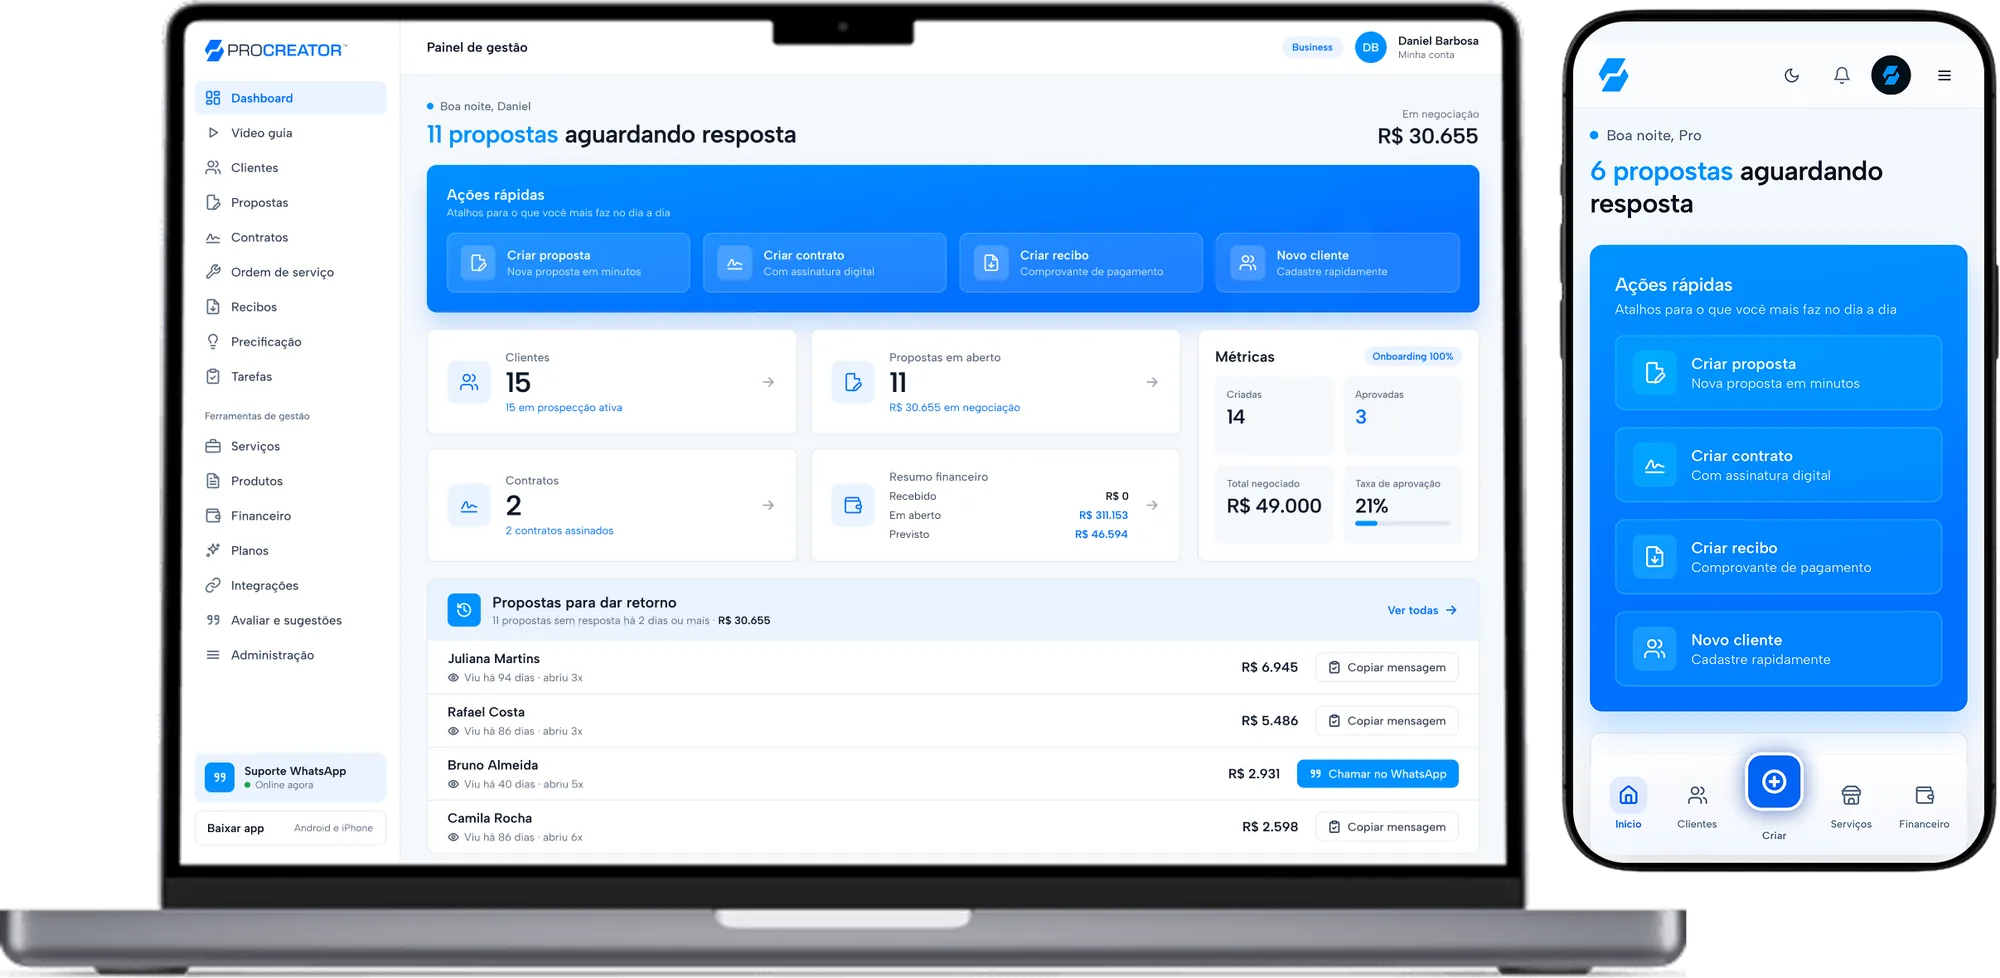
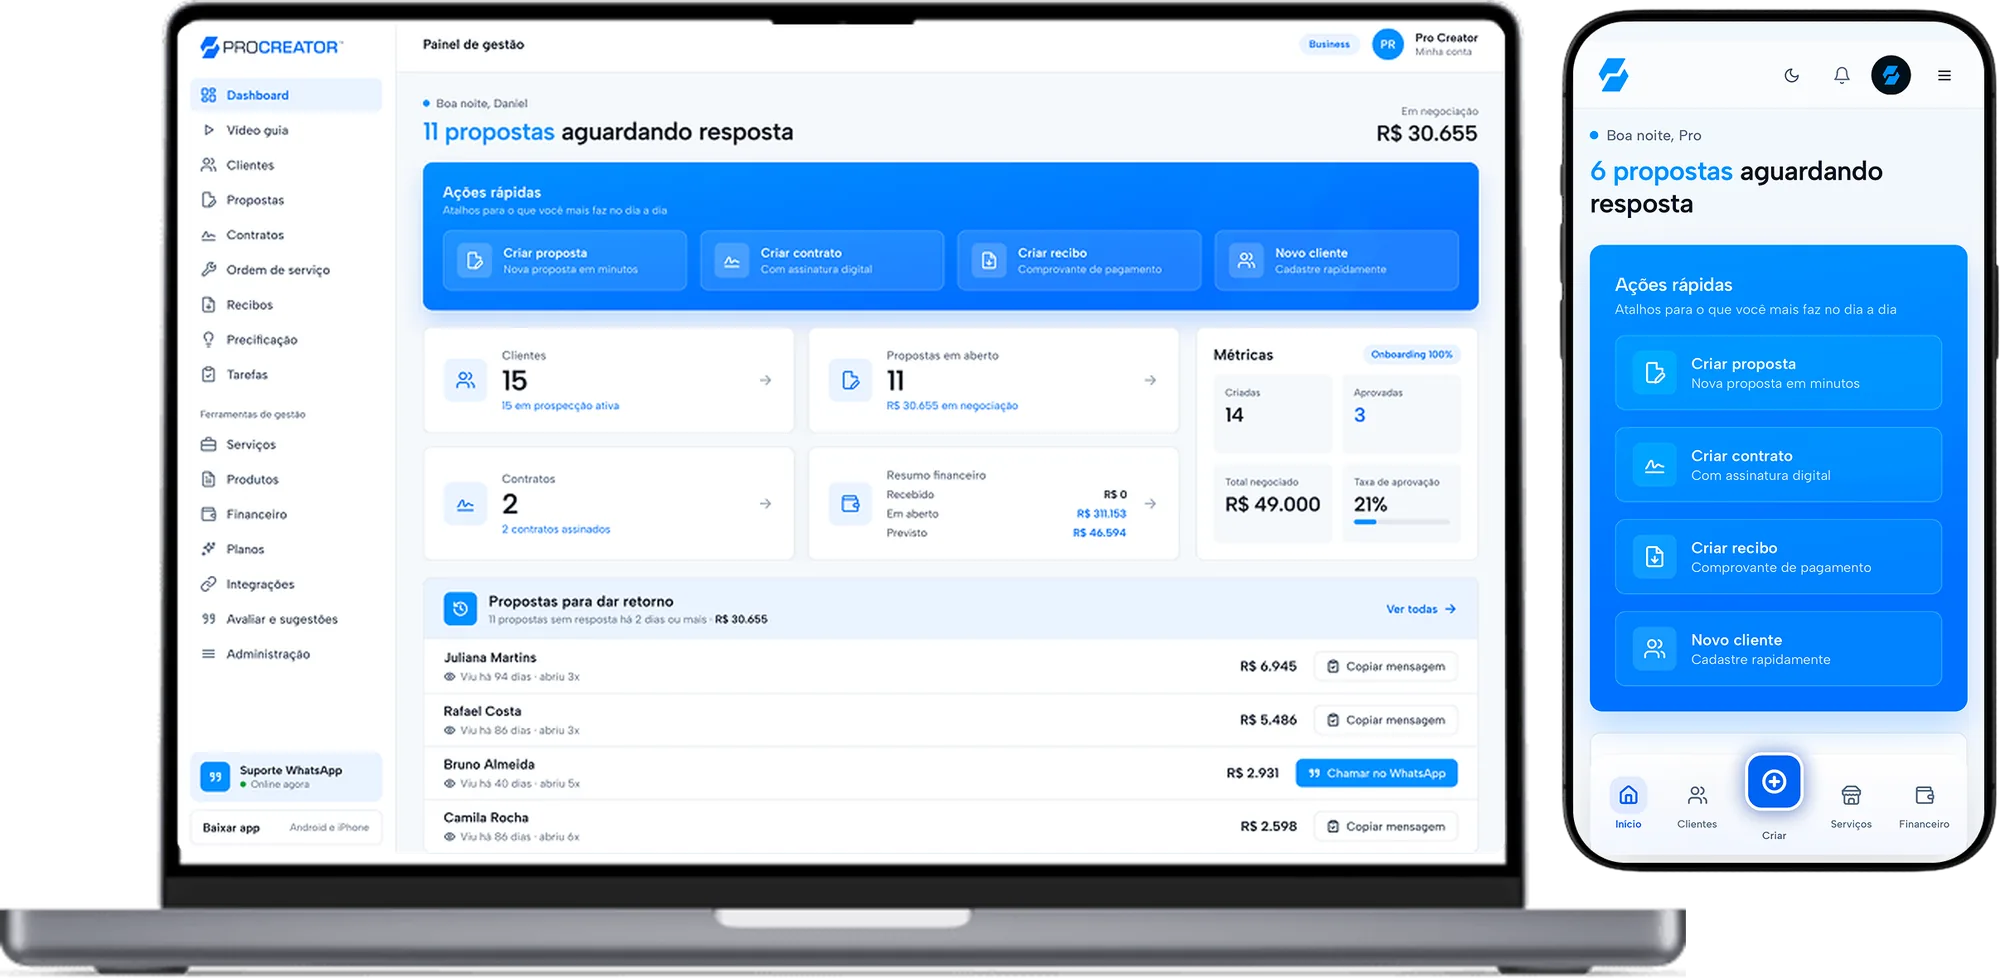
Topo: notebook novo no mockup notebook + celular (#49)
Claude-Session: https://claude.ai/code/session_011aKuBzDWzewufhaf3nabcw

diff --git a/index.html b/index.html
@@ -152,7 +152,7 @@ fbq('init','912571467763616');fbq('track','PageView');
   <!-- MOCKUP -->
   <section class="mockup-band" aria-label="Pro Creator no notebook e no celular">
     <div class="container">
-      <img class="mockup-band-img" loading="lazy" decoding="async" src="assets/img/painel-notebook-celular.webp" alt="Pro Creator funcionando no notebook e no celular" width="2000" height="978">
+      <img class="mockup-band-img" loading="lazy" decoding="async" src="assets/img/painel-notebook-celular.webp?v=2" alt="Pro Creator funcionando no notebook e no celular" width="2000" height="978">
     </div>
   </section>
 
